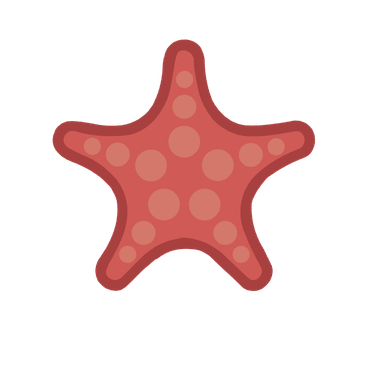
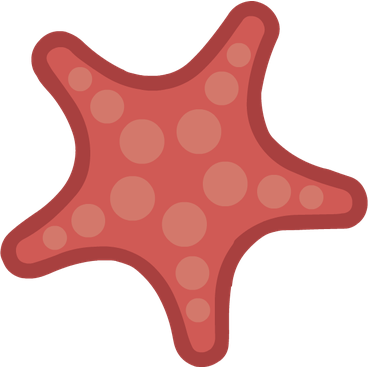
h

diff --git a/test.py b/test.py
@@ -4,7 +4,8 @@ desired_size = 368
 im_pth = "queenfireant.png"
 for image in glob.glob("*.png"):
     im = Image.open(image)
-    im = im.rotate(-45, expand = 1)
+    if "leech" not in image and "starfish" not in image:
+        im = im.rotate(-45, expand = 1)
     old_size = im.size  # old_size[0] is in (width, height) format
     
     ratio = float(desired_size)/max(old_size)
